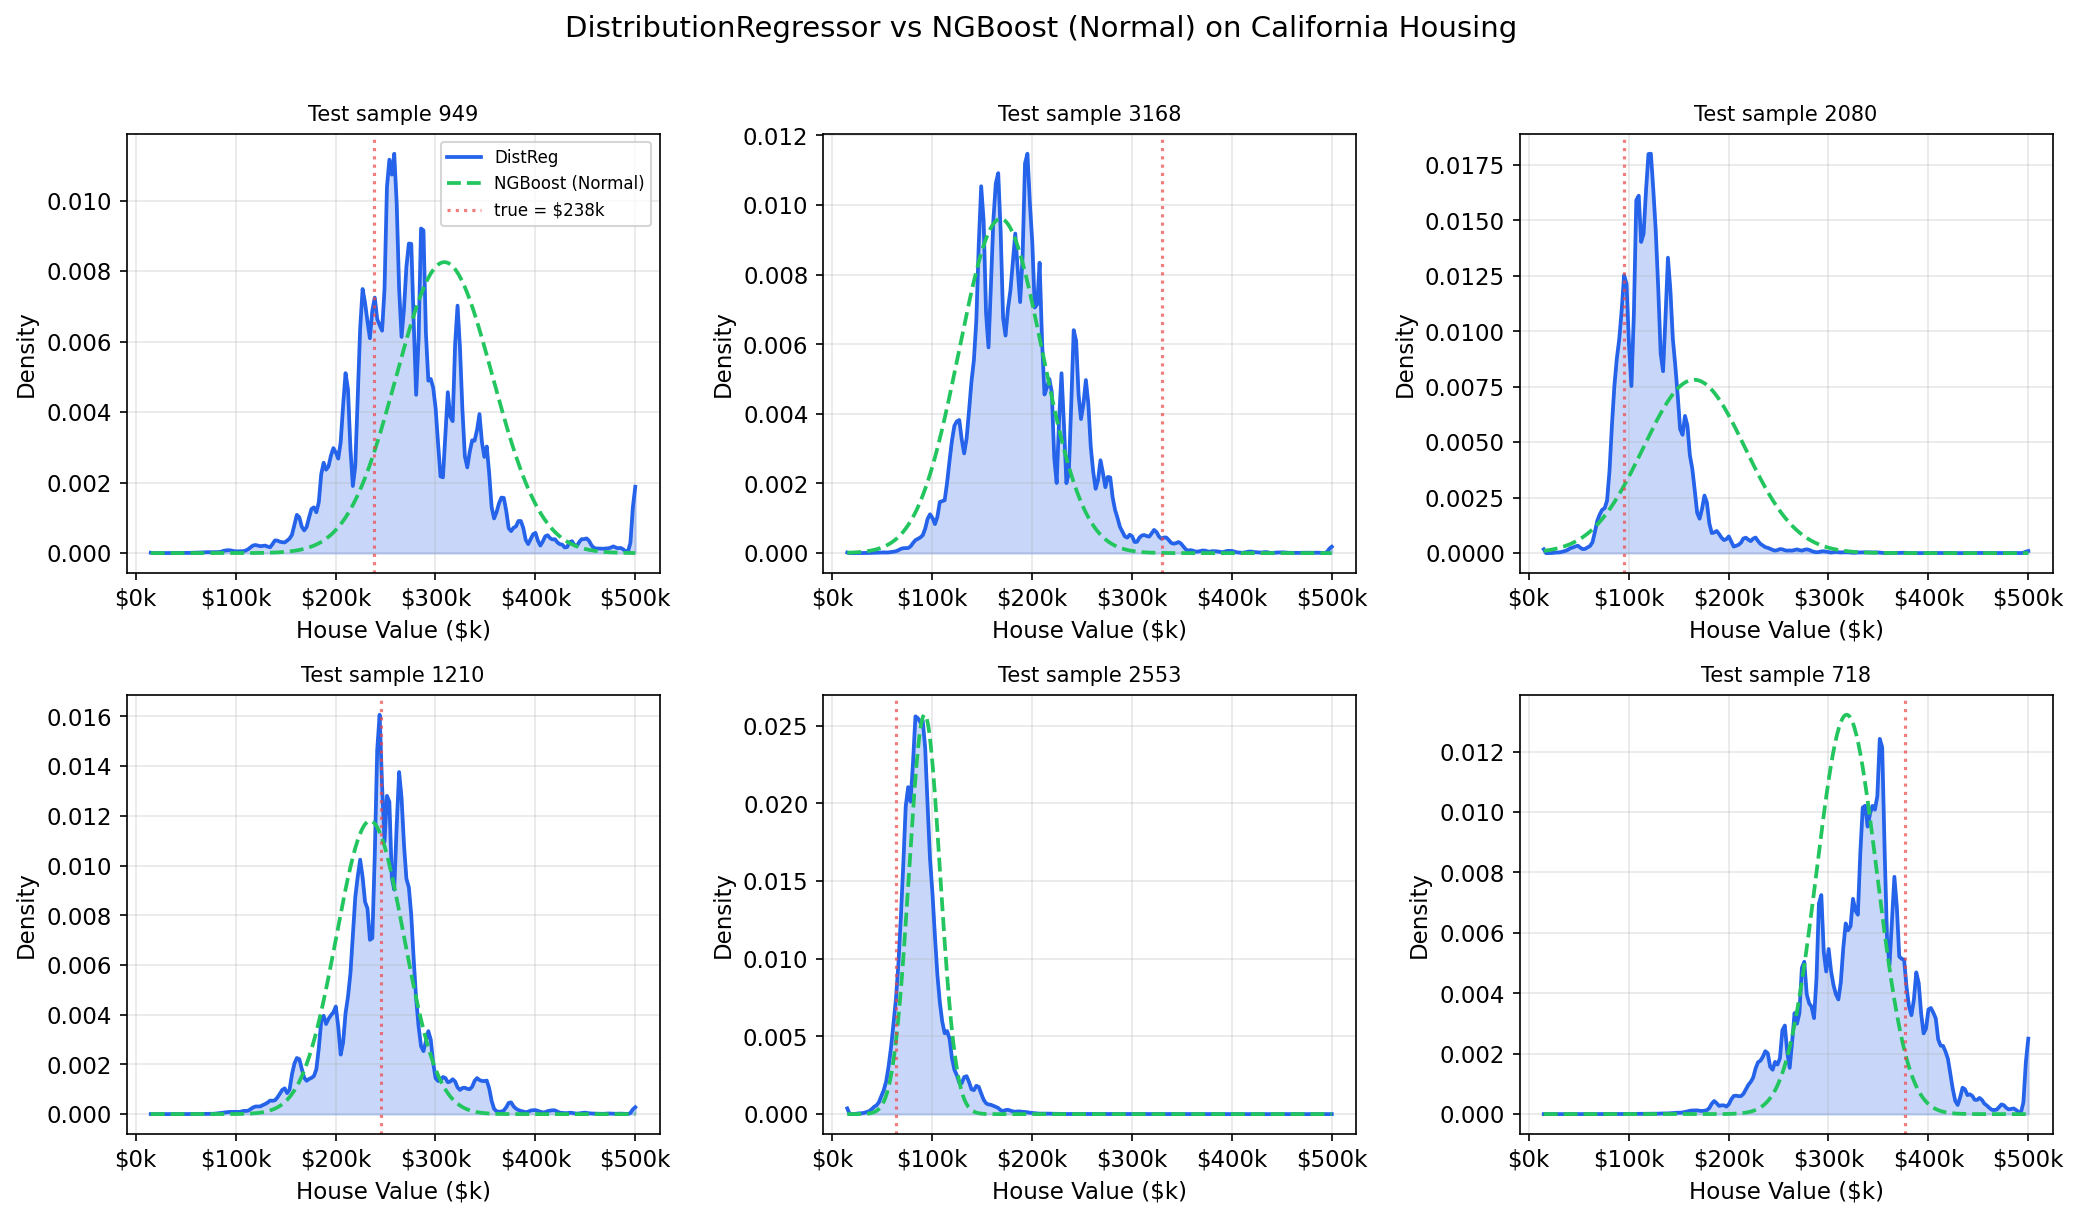
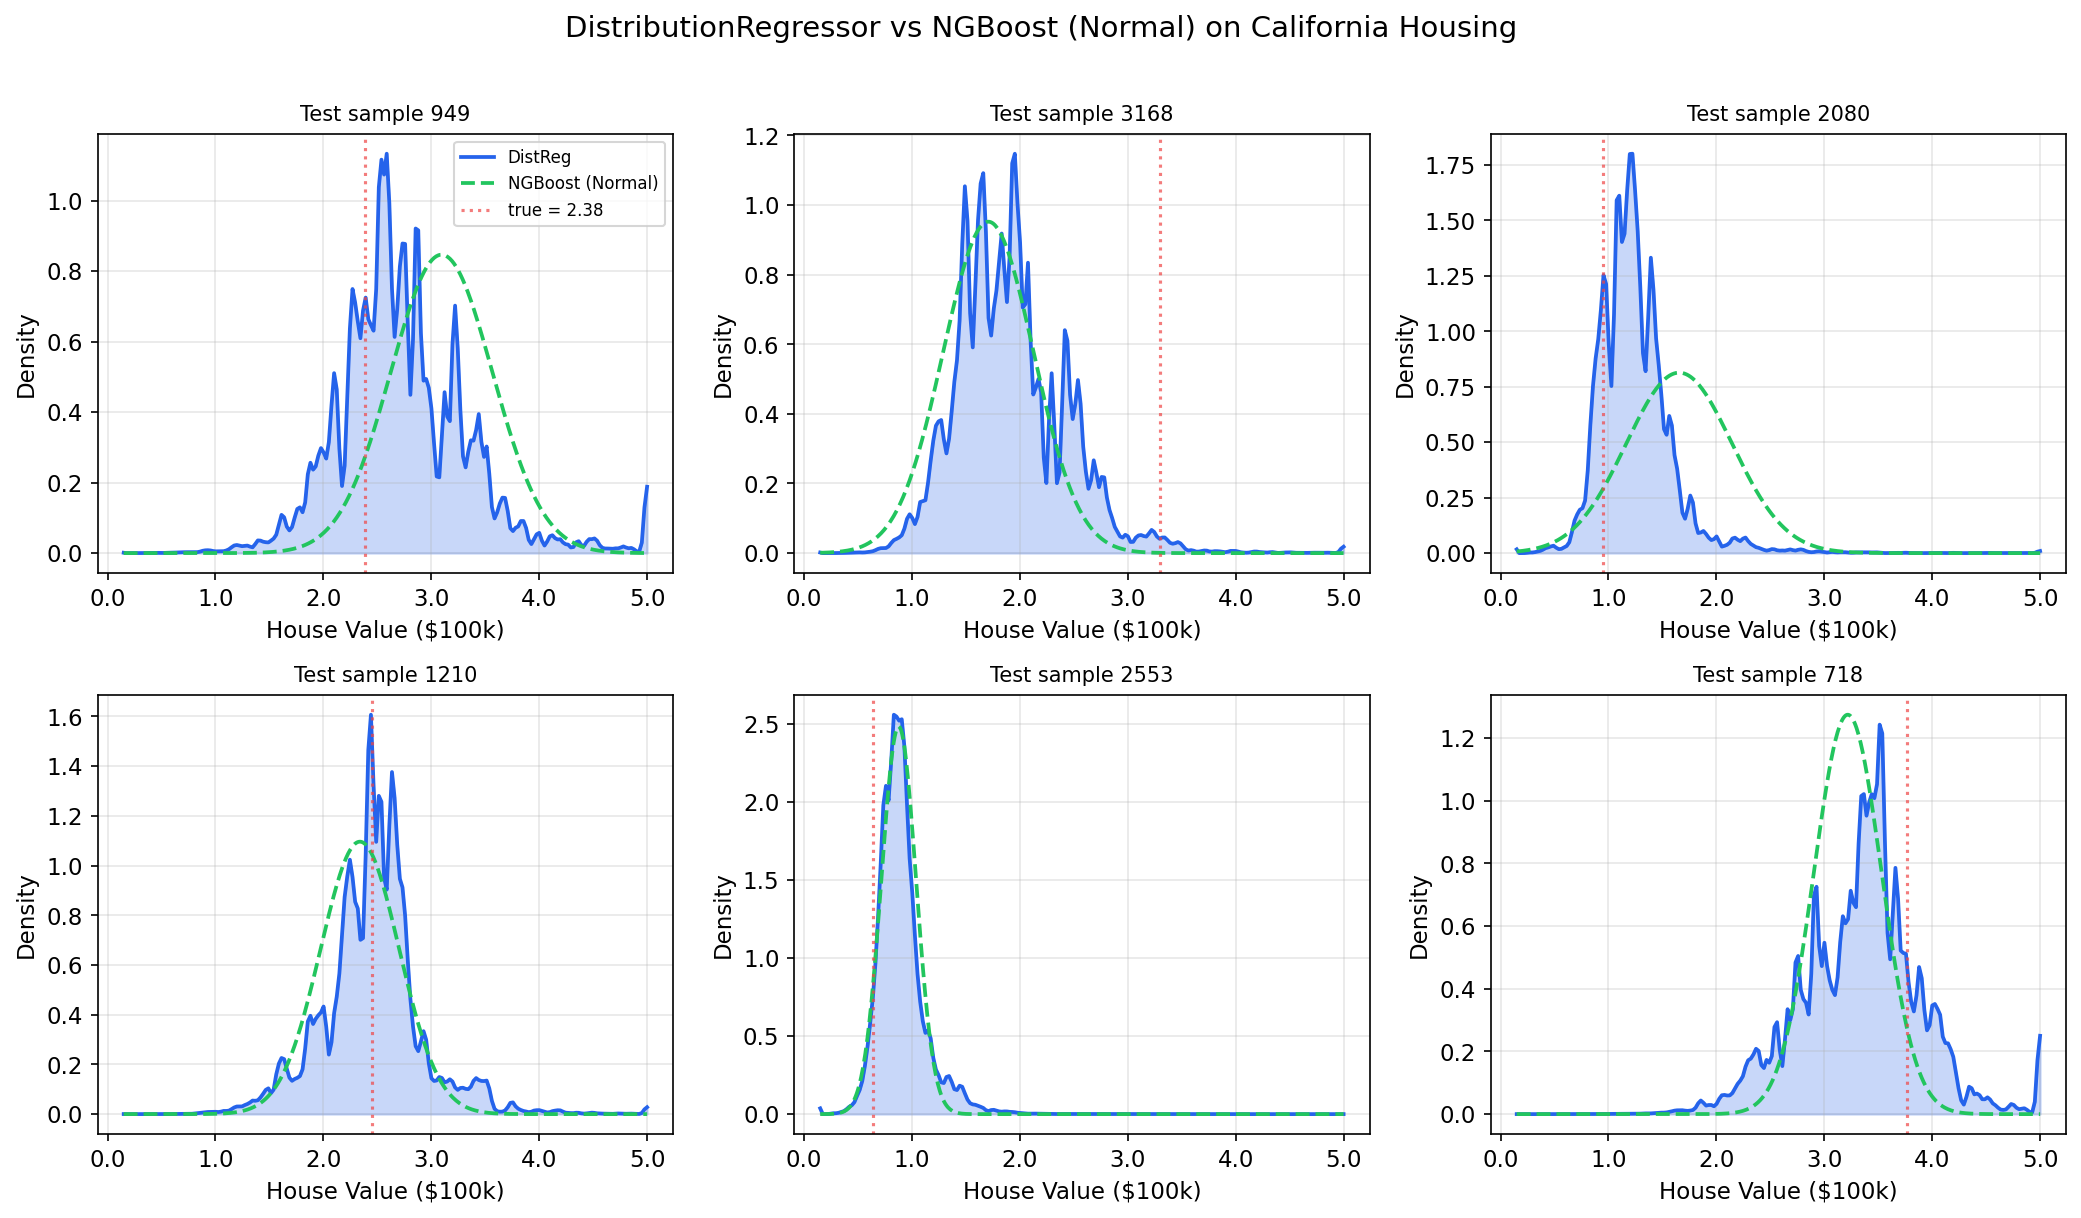
Update California Housing figures and documentation for clarity and accuracy

diff --git a/docs/index.html b/docs/index.html
@@ -1070,11 +1070,11 @@ p90 = model.<span class="fn">predict_quantile</span>(X, <span class="num">0.9</s
           <tbody>
             <tr>
               <td><strong>DistributionRegressor</strong></td>
-              <td><strong>4.74</strong></td>
+              <td><strong>0.14</strong></td>
             </tr>
             <tr>
               <td>NGBoost (Normal)</td>
-              <td>5.16</td>
+              <td>0.56</td>
             </tr>
           </tbody>
         </table>
@@ -1083,6 +1083,7 @@ p90 = model.<span class="fn">predict_quantile</span>(X, <span class="num">0.9</s
           <strong>Key takeaway:</strong> DistributionRegressor outperforms NGBoost (Normal) by 0.42 nats on California Housing,
           without requiring any distributional assumptions.
           House value distributions are often multimodal and bounded, which violates the Normal assumption that NGBoost relies on.
+          Target is median house value in $100k (sklearn default scale).
         </div>
 
         <h3>The limitation of parametric models</h3>

diff --git a/docs/generate_figures.py b/docs/generate_figures.py
@@ -76,8 +76,8 @@ def load_california():
     from sklearn.datasets import fetch_california_housing
     data = fetch_california_housing()
     X, y = data.data, data.target
-    # Target is median house value in $100k; convert to $k for readability
-    y = y * 100
+    # Target is median house value in $100k (sklearn default)
+    # Keep original scale for comparable NLL values
     X_train, X_test, y_train, y_test = train_test_split(X, y, test_size=0.2, random_state=42)
     return X_train, X_test, y_train, y_test
 
@@ -237,11 +237,11 @@ def fig_california_ngboost():
         ax.plot(y_plot, ngb_pdf, color=GREEN, linewidth=1.8, linestyle='--', label='NGBoost (Normal)')
 
         ax.axvline(true_y, color=RED, linestyle=':', linewidth=1.5, alpha=0.7,
-                   label=f'true = ${true_y:,.0f}k')
+                   label=f'true = {true_y:.2f}')
         ax.set_title(f'Test sample {idx}', fontsize=10)
-        ax.set_xlabel('House Value ($k)')
+        ax.set_xlabel('House Value ($100k)')
         ax.set_ylabel('Density')
-        ax.xaxis.set_major_formatter(FuncFormatter(lambda x, p: f'${x:,.0f}k'))
+        ax.xaxis.set_major_formatter(FuncFormatter(lambda x, p: f'{x:.1f}'))
 
     dr.set_output_smoothing(output_smoothing=0)
 
@@ -356,8 +356,8 @@ def fig_baseline_multimodal():
 
         ax.axvline(true_y, color=RED, linestyle=':', linewidth=1.2, alpha=0.7)
         ax.set_title(f'Test sample {idx}', fontsize=10)
-        ax.set_xlabel('House Value ($k)')
-        ax.xaxis.set_major_formatter(FuncFormatter(lambda x, p: f'${x:,.0f}k'))
+        ax.set_xlabel('House Value ($100k)')
+        ax.xaxis.set_major_formatter(FuncFormatter(lambda x, p: f'{x:.1f}'))
 
     model_direct.set_output_smoothing(output_smoothing=0)
     model_baseline.set_output_smoothing(output_smoothing=0)
